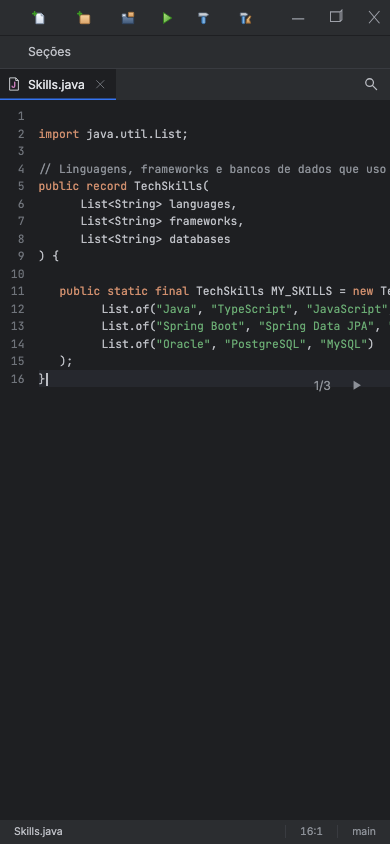
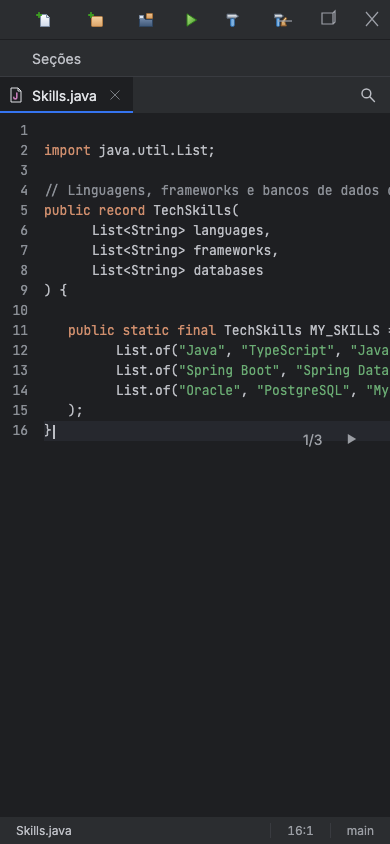
docs: completa a entrada 0010 do diário com os dois achados e os números

diff --git a/openspec/changes/tokens-e-tipografia-intellij/tasks.md b/openspec/changes/tokens-e-tipografia-intellij/tasks.md
@@ -2,15 +2,15 @@
 
 ## 1. Tokens e tipografia [Pincel]
 
-- [ ] 1.1 Paleta Dark da New UI, acento azul e anel de foco de 2px nos tokens, com o contraste de cada cor registrado na note "Design Tokens" — verificar sem nenhuma ocorrência de `#de60d2` em `src/`
-- [ ] 1.2 Inter servida pelo site, escala de 13px/14px, densidade (árvore, painel, barras, aba pela largura do nome, editor sem raio) e escala do celular — verificar com capturas `intellij-desktop.png`, `intellij-secao.png` e `intellij-mobile.png`
-- [ ] 1.3 `color-scheme: dark`, `theme-color`, números tabulares e `translate="no"` no código — verificar no HTML pré-renderizado
+- [x] 1.1 Paleta Dark da New UI, acento azul e anel de foco de 2px nos tokens, com o contraste de cada cor registrado na note "Design Tokens" — verificar sem nenhuma ocorrência de `#de60d2` em `src/`
+- [x] 1.2 Inter servida pelo site, escala de 13px/14px, densidade (árvore, painel, barras, aba pela largura do nome, editor sem raio) e escala do celular — verificar com capturas `intellij-desktop.png`, `intellij-secao.png` e `intellij-mobile.png`
+- [x] 1.3 `color-scheme: dark`, `theme-color`, números tabulares e `translate="no"` no código — verificar no HTML pré-renderizado
 
 ## 2. Testes [Sentinela]
 
-- [ ] 2.1 Atualizar os testes de cores, tamanhos e foco e cobrir as specs modificadas (fontes locais, escala, acento, ajustes nativos, código sem tradução), com axe — verificar com `npm run test:ci && npm run build && npm run e2e`
+- [x] 2.1 Atualizar os testes de cores, tamanhos e foco e cobrir as specs modificadas (fontes locais, escala, acento, ajustes nativos, código sem tradução), com axe — verificar com `npm run test:ci && npm run build && npm run e2e`
 
 ## 3. Documentação e integração
 
-- [ ] 3.1 [Escriba] `docs/componentes.md`, `docs/arquitetura.md` e a entrada `0010-tokens-e-tipografia-intellij.md` do diário — verificar com `npm run format:check`
-- [ ] 3.2 [Regente] Revisar, verificar, abrir o PR (com o ADR-0011), arquivar a change no PR e fazer o merge — verificar pelo PR mesclado e pelo deploy
+- [x] 3.1 [Escriba] `docs/componentes.md`, `docs/arquitetura.md` e a entrada `0010-tokens-e-tipografia-intellij.md` do diário — verificar com `npm run format:check`
+- [x] 3.2 [Regente] Revisar, verificar, abrir o PR (com o ADR-0011), arquivar a change no PR e fazer o merge — verificar pelo PR mesclado e pelo deploy

diff --git a/docs/diario/0010-tokens-e-tipografia-intellij.md b/docs/diario/0010-tokens-e-tipografia-intellij.md
@@ -54,7 +54,15 @@ Medidas de produção, antes e depois:
   não garante acessibilidade.
 - **Fatiar deixa cada passo entregável.** Cada change vai ao ar completa e coerente, mesmo que o
   site fique "meio IntelliJ" até a última. Aceitei isso em troca de risco menor.
-- **Números finais.** Testes unitários: a definir. Testes E2E: a definir.
+- **Um `font-size` no `<html>` encolheu tudo.** A primeira versão aplicou os 13px da interface
+  também no `<html>`, e `1rem` passou a valer 13px: todos os tokens em `rem` saíram 19% menores
+  (código com 11,4px em vez de 14). A Sentinela mediu os valores calculados no build e achou; a
+  correção foi deixar o tamanho só no `body`.
+- **Nem os números de linha escapam do contraste.** O cinza escolhido (`#6F737A`) dava 3,46:1 e
+  o axe reprovou todas as rotas. Em vez de excluir os números da verificação, o token subiu para
+  `#8B8F96`, o menor tom que passa em AA sobre o editor e sobre a linha atual.
+- **Números finais.** 635 testes unitários (98,4% das linhas), 490 testes E2E e 24 rotas
+  pré-renderizadas, com o axe sem violações e sem exclusões.
 
 ![A mesma seção no celular](imagens/0010-mobile.png)
 
